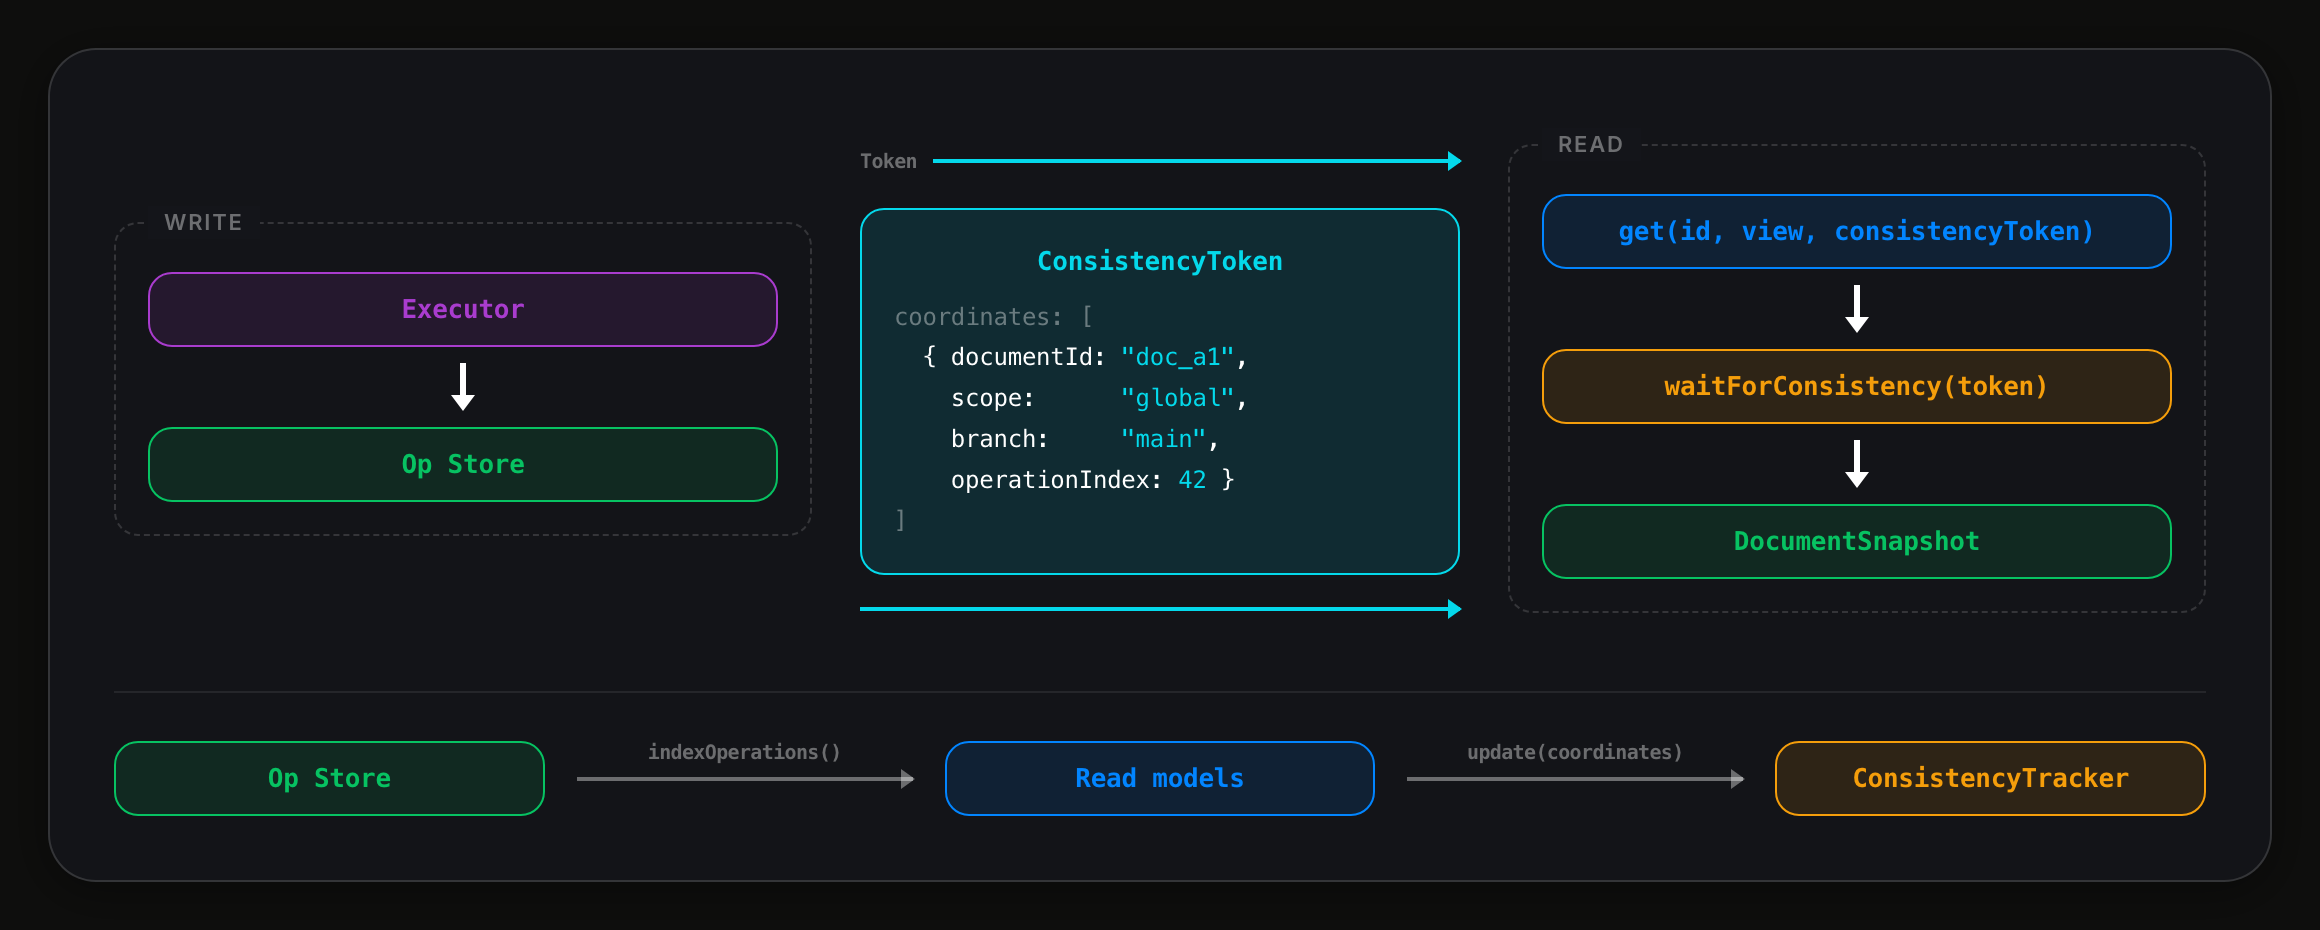
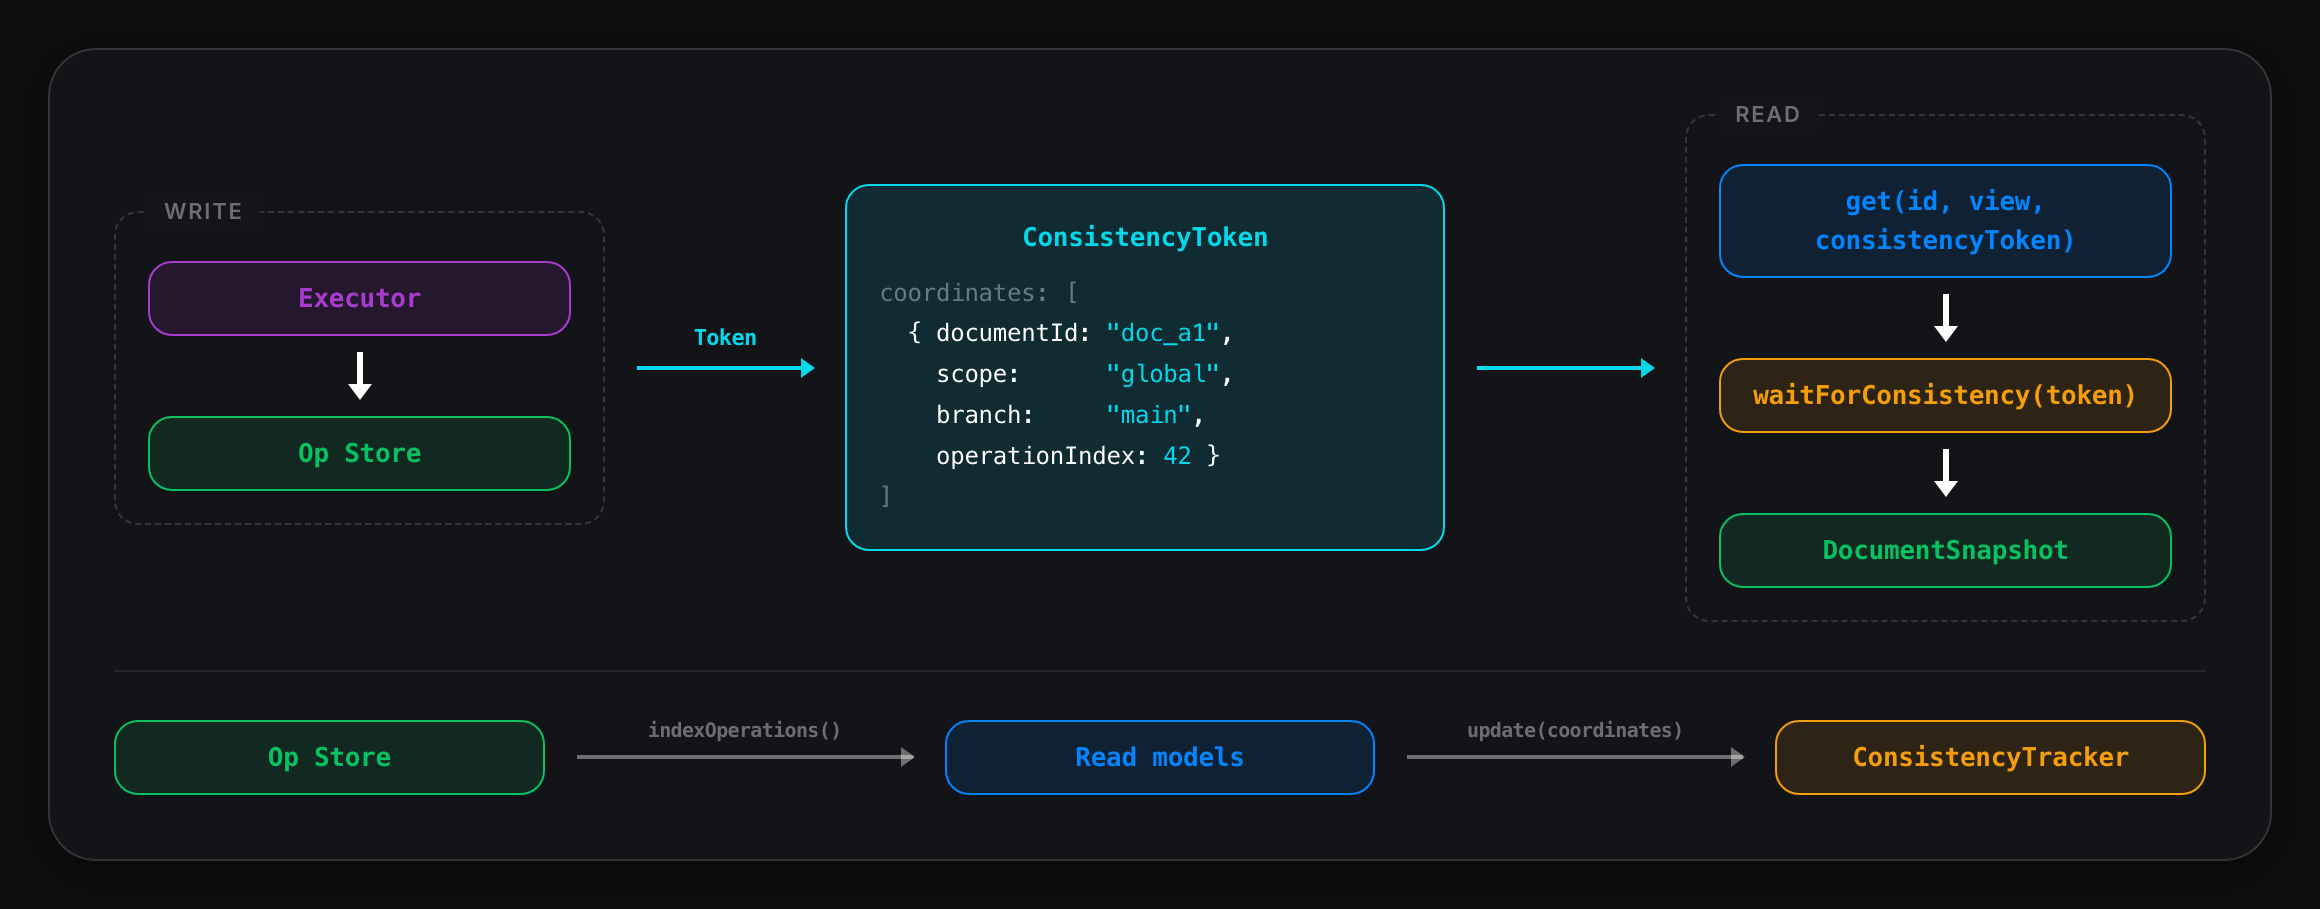
rebuild: the consistency token reads left to right

diff --git a/diagrams/pages/consistency-token.html b/diagrams/pages/consistency-token.html
@@ -18,8 +18,8 @@
     /* Write on the left, the token in the middle, read on the right */
     .trip {
       display: grid;
-      grid-template-columns: 1fr 300px 1fr;
-      gap: var(--space-lg);
+      grid-template-columns: 1fr 88px 300px 88px 1fr;
+      gap: var(--space-md);
       align-items: center;
     }
 
@@ -110,24 +110,13 @@
     .token-body .k { color: var(--text-muted); }
     .token-body .n { color: var(--accent-cyan); }
 
-    /* The two hops the token makes */
+    /* The two hops the token makes, left to right across the middle */
     .hop {
-      display: flex;
-      align-items: center;
-      gap: var(--space-sm);
-      font-size: 10px;
-      font-weight: var(--font-weight-semibold);
-      font-family: 'SF Mono', 'Fira Code', monospace;
-      color: var(--text-muted);
-      margin: var(--space-md) 0;
-    }
-    .hop-line {
-      height: 2px;
-      flex: 1;
-      background: var(--accent-cyan);
       position: relative;
+      height: 2px;
+      background: var(--accent-cyan);
     }
-    .hop-line::after {
+    .hop::after {
       content: '';
       position: absolute;
       right: -1px;
@@ -136,6 +125,17 @@
       border-top: 5px solid transparent;
       border-bottom: 5px solid transparent;
       border-left: 7px solid var(--accent-cyan);
+    }
+    .hop-label {
+      position: absolute;
+      bottom: 8px;
+      left: 50%;
+      transform: translateX(-50%);
+      font-size: 11px;
+      font-weight: var(--font-weight-semibold);
+      font-family: 'SF Mono', 'Fira Code', monospace;
+      color: var(--accent-cyan);
+      white-space: nowrap;
     }
 
     /* The lag the token covers */
@@ -195,13 +195,10 @@
             <div class="box accent-green mono">Op Store</div>
           </div>
 
-          <!-- ============ The token ============ -->
-          <div>
-            <div class="hop">
-              <span>Token</span>
-              <span class="hop-line"></span>
-            </div>
+          <!-- ============ The token, handed across the middle ============ -->
+          <div class="hop"><span class="hop-label">Token</span></div>
 
+          <div>
             <div class="token">
               <div class="token-title mono">ConsistencyToken</div>
 <div class="token-body mono"><span class="k">coordinates: [</span>
@@ -211,11 +208,9 @@
     operationIndex: <span class="n">42</span> }
 <span class="k">]</span></div>
             </div>
-
-            <div class="hop">
-              <span class="hop-line"></span>
-            </div>
           </div>
+
+          <div class="hop"></div>
 
           <!-- ============ Read ============ -->
           <div class="side">
